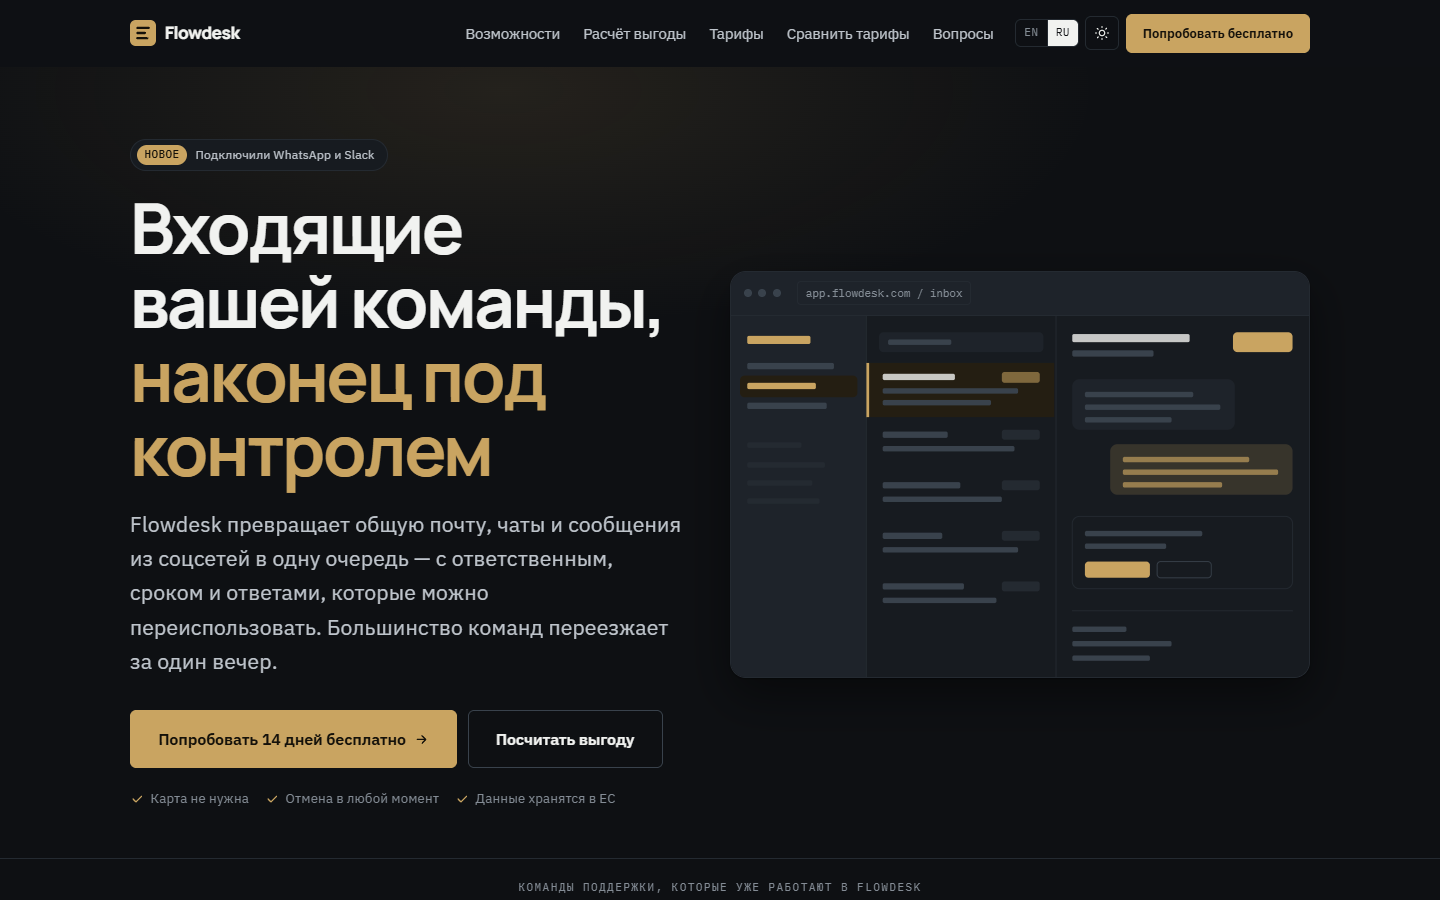
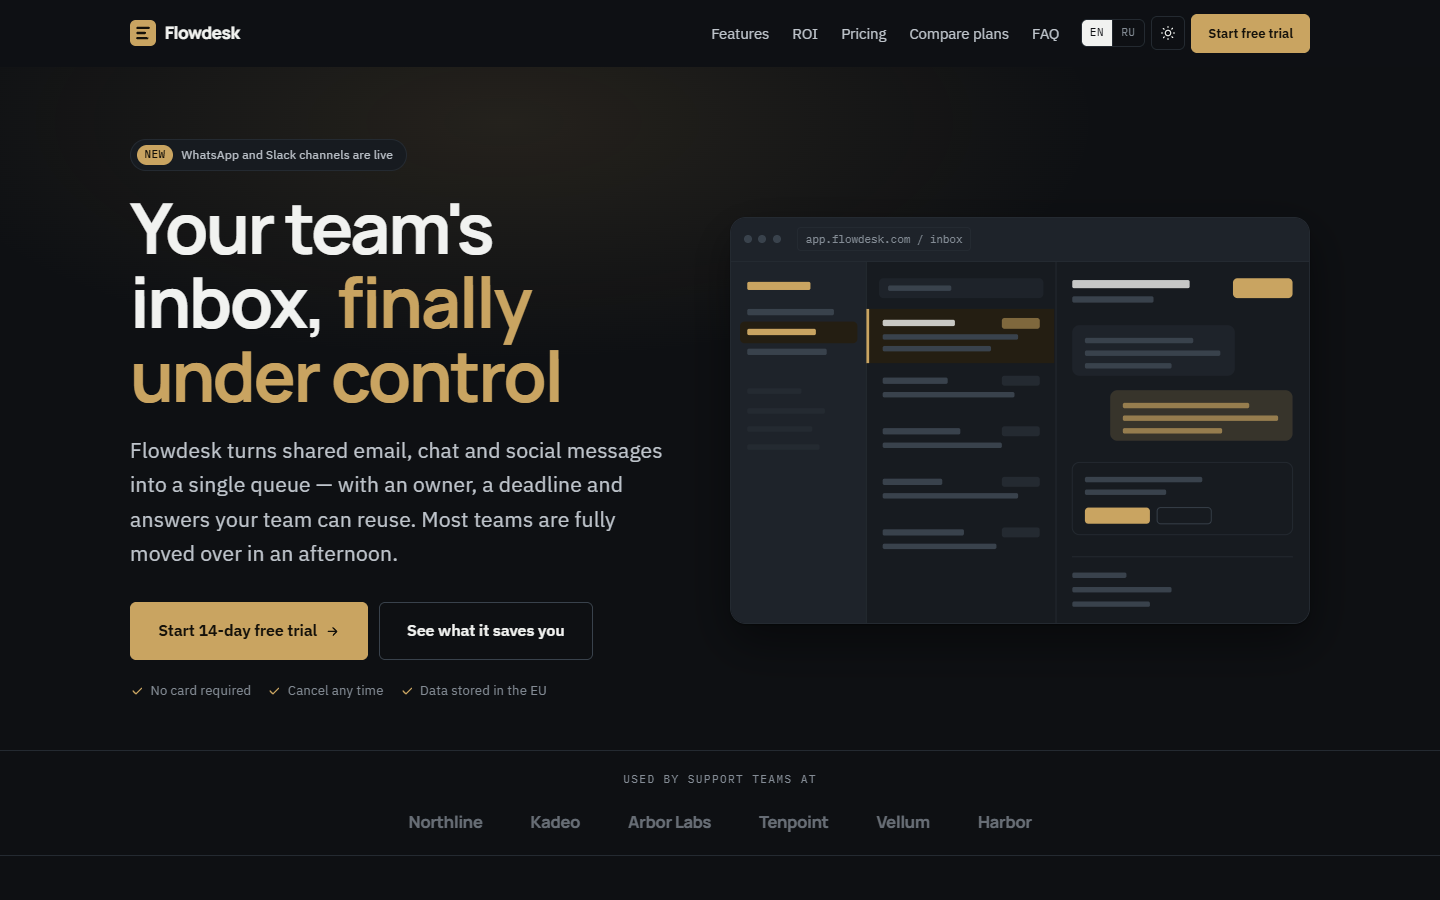
Site files, README and preview

diff --git a/index.html b/index.html
@@ -30,7 +30,7 @@
     var p = location.search.match(/[?&]lang=([a-z]{2})/i);
     if (p && langs.indexOf(p[1].toLowerCase()) > -1) lang = p[1].toLowerCase();
     if (!lang) { try { var s = localStorage.getItem('fd-lang'); if (langs.indexOf(s) > -1) lang = s; } catch (e) {} }
-    if (!lang) { lang = /^ru/i.test(navigator.language || '') ? 'ru' : 'en'; }
+    if (!lang) { lang = 'en'; }
     d.setAttribute('data-lang', lang);
     if (lang !== 'en') { d.className += ' i18n-pending'; setTimeout(function () { d.classList.remove('i18n-pending'); }, 1200); }
     try { var t = localStorage.getItem('fd-theme'); if (t) d.setAttribute('data-theme', t); } catch (e) {}

diff --git a/pricing.html b/pricing.html
@@ -21,7 +21,7 @@
   var p = location.search.match(/[?&]lang=([a-z]{2})/i);
   if (p && langs.indexOf(p[1].toLowerCase()) > -1) lang = p[1].toLowerCase();
   if (!lang) { try { var s = localStorage.getItem('fd-lang'); if (langs.indexOf(s) > -1) lang = s; } catch (e) {} }
-  if (!lang) { lang = /^ru/i.test(navigator.language || '') ? 'ru' : 'en'; }
+  if (!lang) { lang = 'en'; }
   d.setAttribute('data-lang', lang);
   if (lang !== 'en') { d.className += ' i18n-pending'; setTimeout(function () { d.classList.remove('i18n-pending'); }, 1200); }
   try { var t = localStorage.getItem('fd-theme'); if (t) d.setAttribute('data-theme', t); } catch (e) {}
